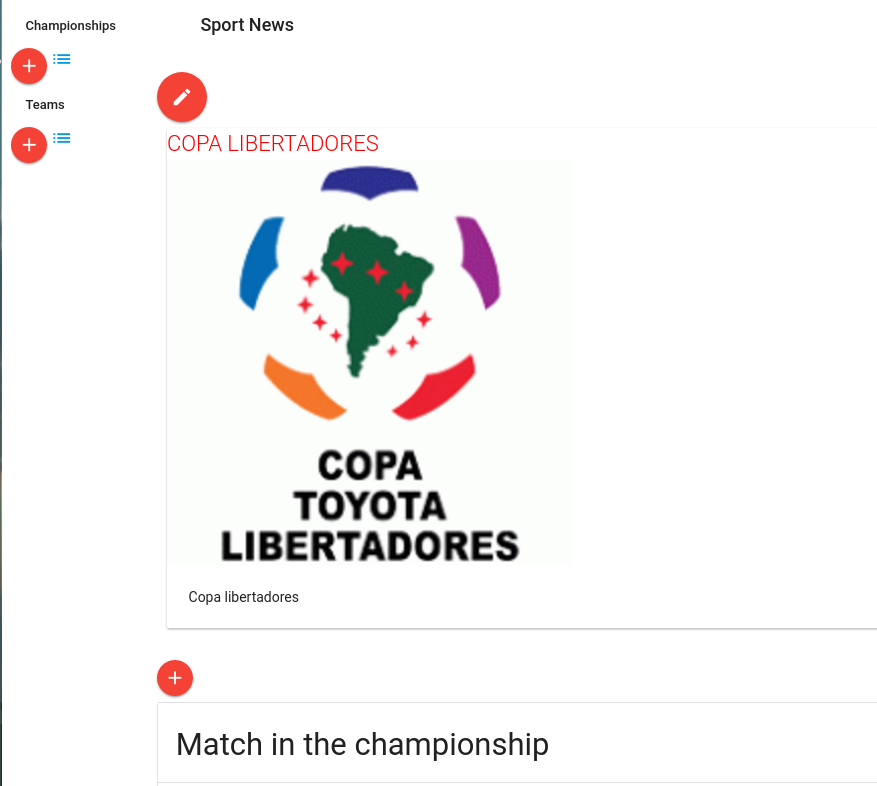
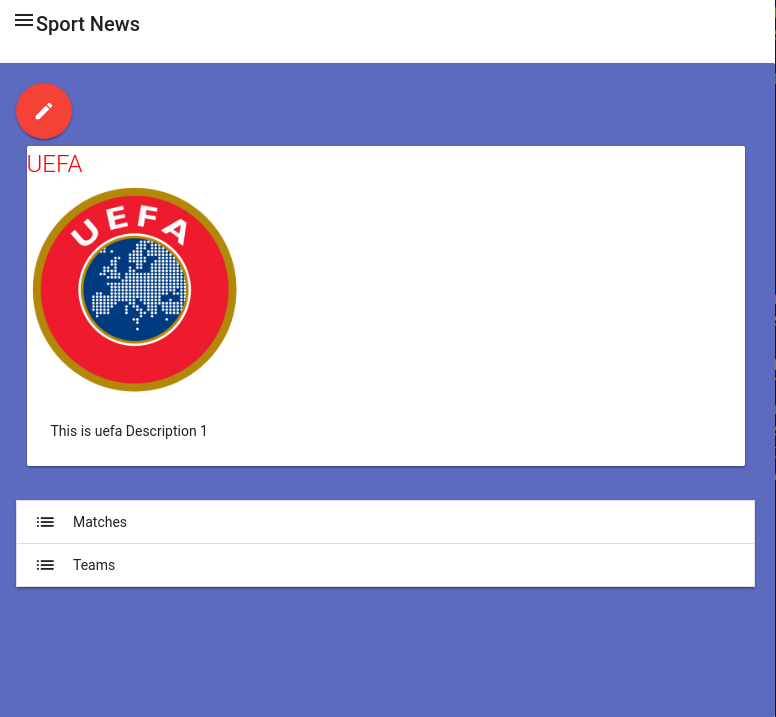
Updated championship show look and feel and mockups of it

diff --git a/client/src/app/championship/championship-show/championship-show.component.html b/client/src/app/championship/championship-show/championship-show.component.html
@@ -17,33 +17,44 @@
       </div>
     </div>
   </div>
-  <a class="btn-floating btn waves-effect waves-light red" [routerLink]="['/match/add', {championshipRowId: current.id}]"  routerLinkActive="active"><i class="material-icons">add</i></a>
-  <ul class="collection with-header">
-    <li class="collection-header"><h4>Match in the championship</h4></li>
-    <li class="collection-item avatar" *ngFor="let matchTeam of matchTeams">
-      <a [routerLink]="['/match/show', matchTeam.match.id]" ><span class="title" style=" text-transform: uppercase;">Match Date : {{matchTeam.match.matchDate}}</span></a>
-      <a class="btn-floating btn waves-effect waves-light red" (click)="removeMatch(matchTeam.match.id)" routerLinkActive="active"><i class="material-icons">delete</i></a>
-      <ul class="collection with-header">
-        <li class="collection-header"><h4>Teams</h4></li>
-        <li class="collection-item avatar" *ngFor="let team of matchTeam.teams">
-          <img src="{{team.team.logoUrl}}" class="circle" > 
-          <a [routerLink]="['/team/show', team.team.id]" ><span class="title" style=" text-transform: uppercase;">Team Name : {{team.team.name}}</span></a>
-        </li>
-      </ul>
+
+
+  <ul class="collapsible" data-collapsible="accordion">
+    <li>
+      <div class="collapsible-header"><i class="material-icons">list</i>Matches</div>
+      <div class="collapsible-body">
+          <a class="btn-floating btn waves-effect waves-light red" [routerLink]="['/match/add', {championshipRowId: current.id}]"  routerLinkActive="active"><i class="material-icons">add</i></a>
+          <ul class="collection with-header">
+            <li class="collection-header"><h4>Matches</h4></li>
+            <li class="collection-item avatar" *ngFor="let matchTeam of matchTeams">
+              <a [routerLink]="['/match/show', matchTeam.match.id]" ><span class="title" style=" text-transform: uppercase;">Match Date: {{matchTeam.match.matchDate}}</span></a>
+              <a class="btn-floating btn waves-effect waves-light red" (click)="removeMatch(matchTeam.match.id)" routerLinkActive="active"><i class="material-icons">delete</i></a>
+              <ul class="collection with-header">
+                <li class="collection-item avatar col s6 m6 " style="display: inline-block;" *ngFor="let team of matchTeam.teams">
+                  <img src="{{team.team.logoUrl}}" class="circle">
+                  <a [routerLink]="['/team/show', team.team.id]" ><span class="title" style=" text-transform: uppercase;">Team Name : {{team.team.name}}</span></a>
+                </li>
+              </ul>
+            </li>
+          </ul>
+      </div>
+    </li>
+    <li>
+      <div class="collapsible-header"><i class="material-icons">list</i>Teams</div>
+      <div class="collapsible-body">
+         <ul class="collection with-header">
+          <li class="collection-header"><h4>Teams</h4></li>
+          <li class="collection-item avatar" *ngFor="let rowTeams of children">
+            <img src="{{rowTeams.team.logoUrl}}" class="circle">
+            <a [routerLink]="['/team/show', rowTeams.team.id]" ><span class="title" style=" text-transform: uppercase;">{{rowTeams.team.name}}</span></a>
+            <span class="title" style=" text-transform: uppercase;">{{rowTeams.points}}</span>
+            <a class="btn-floating btn waves-effect waves-light red" (click)="removeChildren(rowTeams.id)" routerLinkActive="active"><i class="material-icons">delete</i></a>
+          </li>
+        </ul>
+        <div>
+          <button md-button (click)="openDialog()">Add Team</button>
+        </div>
+      </div>
     </li>
   </ul>
-
-  <ul class="collection with-header">
-    <li class="collection-header"><h4>Teams in the championship</h4></li>
-    <li class="collection-item avatar" *ngFor="let rowTeams of children">
-      <img src="{{rowTeams.team.logoUrl}}" class="circle">
-      <a [routerLink]="['/team/show', rowTeams.team.id]" ><span class="title" style=" text-transform: uppercase;">{{rowTeams.team.name}}</span></a>
-      <span class="title" style=" text-transform: uppercase;">{{rowTeams.points}}</span>
-      <a class="btn-floating btn waves-effect waves-light red" (click)="removeChildren(rowTeams.id)" routerLinkActive="active"><i class="material-icons">delete</i></a>
-    </li>
-  </ul>
-
-  <div>
-    <button md-button (click)="openDialog()">Add Another Team</button>
-  </div>
 </div>
